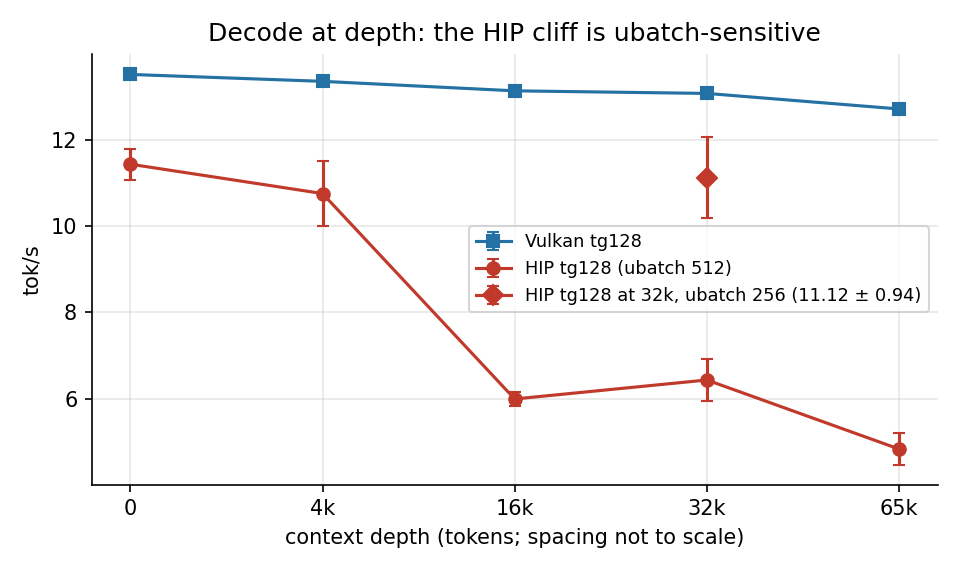
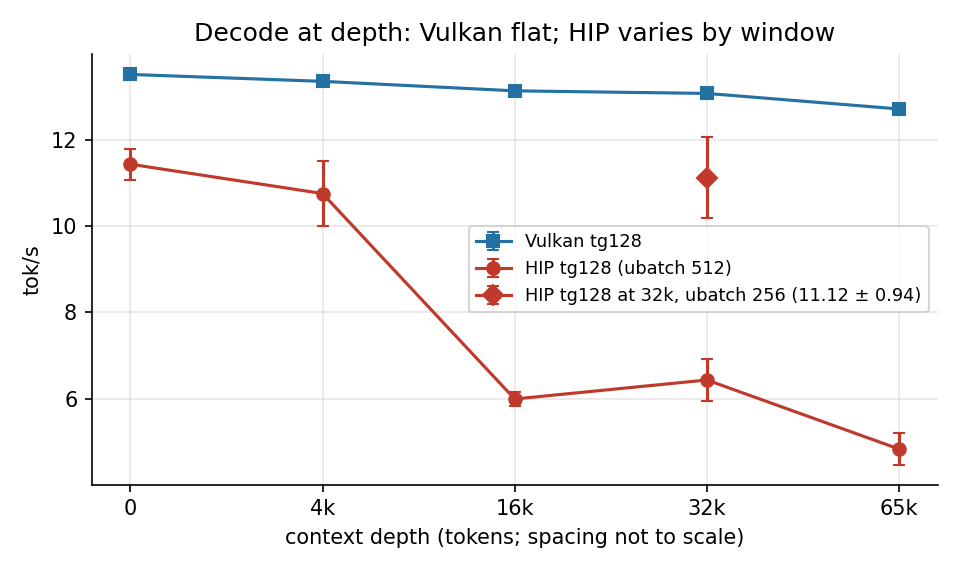
Second review pass: cliff non-replication framing, quant first-pass disclosure, reasoning-effort correction, setup scoping, harness paths, status annotations

Changed region(s): [[0.1875, 0.0298, 0.875, 0.0895]]

diff --git a/harness/make_charts.py b/harness/make_charts.py
@@ -39,7 +39,7 @@ ax.errorbar(DLAB, hip_tg, yerr=hip_e, marker="o", color=HIP, capsize=3, label="H
 # ubatch-256 baseline point from the same record's DFlash-settings table.
 ax.errorbar(["32k"], [11.12], yerr=[0.94], marker="D", color=HIP, markersize=7,
         capsize=3, label="HIP tg128 at 32k, ubatch 256 (11.12 ± 0.94)")
-ax.set_title("Decode at depth: the HIP cliff is ubatch-sensitive")
+ax.set_title("Decode at depth: Vulkan flat; HIP varies by window")
 ax.set_ylabel("tok/s"); ax.set_xlabel("context depth (tokens; spacing not to scale)"); ax.legend(fontsize=8.5)
 fig.tight_layout(); fig.savefig("chart-hip-vulkan.png"); plt.close(fig)
 

diff --git a/harness/analyze_w2.py b/harness/analyze_w2.py
@@ -1,5 +1,5 @@
-import json, statistics as st
-d = json.load(open('/home/hatch/workspace/glimmer/results-w2-raw.json'))
+import json, os, statistics as st
+d = json.load(open(os.path.join(os.path.dirname(os.path.abspath(__file__)), '..', 'data', 'w2', 'results-w2.json')))
 S = d['sections']
 def ms(vals):
     vals=[v for v in vals if v is not None]

diff --git a/harness/analyze_w1.py b/harness/analyze_w1.py
@@ -1,5 +1,5 @@
 import json, re, statistics, os
-base="/home/niclydon/glimmer-furnace-bench/results-w1"
+base=os.path.join(os.path.dirname(os.path.abspath(__file__)), "..", "data", "w1")
 def load(n):
     with open(os.path.join(base,n)) as f: return json.load(f)
 out=[]

diff --git a/article/ARTICLE.md b/article/ARTICLE.md
@@ -1,7 +1,7 @@
 # Muse Glimmer 30B on Strix Halo: a week of measurements
 
 
-The headline benchmark for Muse Spark's Glimmer 30B on a Ryzen AI Max+ 395 is [AMD's](https://www.amd.com/en/blogs/2026/run-meta-muse-glimmer-30b-on-amd-ryzen-ai-max-and-radeon-gpus.html): up to 24 tok/s decode, on Windows, on Vulkan, with DFlash speculative decoding, on a preliminary build of the model. Independent first-party measurements exist too (an [August 2026 four-environment test](https://note.com/zephel01/n/n2c59de98f6e0?hl=en) on this chip, the community [Strix Halo benchmark collection](https://slb350.github.io/strix-benchmarks/), and individual [machine records](https://github.com/kcsinclair/agent-benchmark/blob/main/servers/leia.md)), but they are single-configuration results: a decode number under one serving setup. What I could not find was the operational layer underneath: how the model behaves across context depth, serving shapes, KV choices, and a working week of mixed workloads. I run this model in production, as the local agent seat of a home AI platform, on Linux, on ROCm, on two Strix Halo machines. Over the week of October 18–24, 2026 I benchmarked it: a tuning pass, a context-depth sweep, three controlled maintenance windows on the second machine covering backend comparisons, serving shape, KV cache types at full 131k depth, a quant ladder, power and thermals, and a first vision pass. This article is the results, with the methodology and the caveats kept in, because the caveats are half of what's useful here.
+The headline benchmark for Muse Spark's Glimmer 30B on a Ryzen AI Max+ 395 is [AMD's](https://www.amd.com/en/blogs/2026/run-meta-muse-glimmer-30b-on-amd-ryzen-ai-max-and-radeon-gpus.html): up to 24 tok/s decode, on Windows, on Vulkan, with DFlash speculative decoding, on a preliminary build of the model. Independent first-party measurements exist too (an [August 2026 four-environment test](https://note.com/zephel01/n/n2c59de98f6e0?hl=en) on this chip, the community [Strix Halo benchmark collection](https://slb350.github.io/strix-benchmarks/), and individual [machine records](https://github.com/kcsinclair/agent-benchmark/blob/main/servers/leia.md)), but they are single-configuration results: a decode number under one serving setup. What I could not find was the operational layer underneath: how the model behaves across context depth, serving shapes, KV choices, and a working week of mixed workloads. I run this model in production, as the local agent seat of a home AI platform, on Linux, on ROCm, from one Strix Halo machine. Over the week of October 18–24, 2026 I benchmarked it on two: a tuning pass, a context-depth sweep, three controlled maintenance windows on the second machine covering backend comparisons, serving shape, KV cache types at full 131k depth, a quant ladder, power and thermals, and a first vision pass. This article is the results, with the methodology and the caveats kept in, because the caveats are half of what's useful here.
 
 ## The setup
 
@@ -17,7 +17,7 @@ The model is `unsloth/Muse-Glimmer-30B-GGUF`. The files, with the SHA-256 hashes
 
 The drafter matters: DFlash drafts in 16-token blocks, which makes `--spec-draft-n-max 15` the largest useful setting, a detail that turns out to matter twice below.
 
-Both machines are GMKtec EVO-X2 units (Ryzen AI Max+ 395, Radeon 8060S, gfx1151): Crucible with a 48 GiB GPU budget, Furnace with 64 GiB. The build is llama.cpp b11719 (commit `5aeac37a3`) on ROCm 7.2.1, kernel 6.19.10. Production serving runs through llama-swap; the benches did not — they ran llama-bench and scratch llama-server instances against the same build while llama-swap was stopped. The three Furnace windows and the Crucible sweep ran with the GPU exclusive; the one exception is the founding October 18 Forge-path bench, which ran in production posture with a second model co-resident, and its numbers are labelled as production-path observations where they appear. Repetitions: 3 per cell in the llama-bench phases, 2 runs per cell in the tuning pass and the Phase 3 serving cells; means are reported with their dispersion. Where a number comes from a weaker construction, the text says so at the number, not in a footnote.
+Both machines are GMKtec EVO-X2 units (Ryzen AI Max+ 395, Radeon 8060S, gfx1151): Crucible with a 48 GiB GPU budget, Furnace with 64 GiB. The build is llama.cpp b11719 (commit `5aeac37a3`) on ROCm 7.2.1, kernel 6.19.10: one commit in four local build trees (production and bench trees, HIP and Vulkan), so "same build" anywhere below means same commit, not same binary. Production serving runs through llama-swap; the benches did not — they ran llama-bench and scratch llama-server instances against the same build while llama-swap was stopped. The server-path benches (the DFlash sweep, the serving matrix, the KV cells, and the soak) used raw /completion requests without the chat template; production serves through the template, and the tuning and agent cells used the chat path. The three Furnace windows and the Crucible sweep ran with the GPU exclusive; the one exception is the founding October 18 Forge-path bench, which ran in production posture with a second model co-resident, and its numbers are labelled as production-path observations where they appear. Repetitions: 3 per cell in the llama-bench phases, 2 runs per cell in the tuning pass and the Phase 3 serving cells; means are reported with their dispersion (sample stddevs in the llama-bench data, population stddevs in the server-path aggregates). Where a number comes from a weaker construction, the text says so at the number, not in a footnote.
 
 ## Lesson one: the right draft length depends on what the model is doing
 
@@ -37,17 +37,17 @@ The operational consequence showed up in the very first bench, a production-path
 
 ## HIP versus Vulkan, and an honest loose end
 
-AMD's number is a Vulkan number, so window 1 of the Furnace program ran the canonical llama-bench cells on both the HIP and Vulkan builds of the same llama.cpp commit. One methodological honesty note up front: the comparison is between two local build trees of that commit, not a surgically isolated backend variable; build configuration and driver paths ride along, and the cells were not interleaved. Prefill favors HIP in mean at pp512 at every depth (by 2.5–23%; the 16k cell's HIP dispersion is wide, ±59.87). At pp8192 the picture mixes: Vulkan overtakes HIP at 16k depth (287.54 vs 265.31) and matches at 32k. Decode splits the other way at depth: at the canonical settings (ubatch 512), Vulkan tg128 is flat (13.51 → 12.71 tok/s across 0 → 65,536) while HIP tg128 falls off a cliff between 4k and 16k depth, reaching 4.83 tok/s at 65,536, which makes Vulkan 2.6× faster there.
+AMD's number is a Vulkan number, so window 1 of the Furnace program ran the canonical llama-bench cells on both the HIP and Vulkan builds of the same llama.cpp commit. One methodological honesty note up front: the comparison is between two local build trees of that commit, not a surgically isolated backend variable; build configuration and driver paths ride along, and the cells were not interleaved. Prefill favors HIP in mean at pp512 at every depth (by 2.5–23%; the 16k cell's HIP dispersion is wide, ±59.87). At pp8192 the picture mixes: Vulkan overtakes HIP at 16k depth (287.54 vs 265.31) and matches at 32k. Decode splits the other way at depth in window 1: at the canonical settings (ubatch 512), Vulkan tg128 is flat (13.51 → 12.71 tok/s across 0 → 65,536) while HIP tg128 falls off a cliff between 4k and 16k depth, reaching 4.83 tok/s at 65,536, which makes Vulkan 2.6× faster there. Furnace's HIP build also read about 17% below Crucible's HIP build at depth 0 on the same commit (11.43 vs 13.84), so host and tree differences are in play throughout this section.
 
 ![Vulkan tg128 stays flat with depth while HIP tg128 at ubatch 512 falls to 4.83 tok/s at 65,536. The diamond is the same depth-32,768 cell at ubatch 256 (11.12 ± 0.94 tok/s), the sensitivity described in the text. Furnace, llama-bench, 3 reps per cell. Source data: FURNACE-BENCH-W1-RESULTS.md.](chart-hip-vulkan.png)
 
-Then the caveat that keeps this from being a clean "use Vulkan" headline: the HIP cliff is ubatch-sensitive. At ubatch 256, HIP holds 11.12 tok/s at 32k depth instead of 6.43, and Vulkan shows no comparable sensitivity. The Crucible sweep's HIP numbers were also flat at nominally the same defaults, on a different build tree of the same commit. I am publishing the cells as measured, with the ubatch interaction named, rather than a backend verdict the data doesn't cleanly support. If you reproduce a HIP decode cliff on gfx1151, check your ubatch before you blame the backend.
+Then the caveat that keeps this from being a clean "use Vulkan" headline: the window 1 cliff did not reproduce. In window 3, the same nominal cell (HIP, ubatch 512, depth 32,768) read 12.21 tok/s, not 6.43. Within window 1, a later run at ubatch 256 read 11.12 at that depth, but it ran about 25 minutes after the ubatch-512 cells, so the comparison is confounded with time and window state; the Crucible sweep's HIP numbers were flat at nominally the same defaults, on a different build tree. What survives is a one-window observation with an unknown cause, published as measured. If you reproduce a HIP decode cliff on gfx1151, treat it as a state to characterize across windows, not as a backend verdict.
 
 ## Speculation at depth: what the sweep actually measured
 
 Window 1 also ran the DFlash sweep at depth 32,768, and this is the section where the bench caught its own author. The sweep's prompts were raw /completion requests, not chat-formatted ones: a repeated list of story instructions as filler, ending in a request to write the story, with three prompt variants run once each per configuration. The saved outputs show that in every backend and draft configuration, including draft-off, two of the three variants do not produce the story at all: they continue the prompt's own list ("Variation 1: Now write a short story about a lighthouse keeper…", "Variation 2: …"). On that continuation text the drafter is nearly always right (acceptance 0.76–1.00), which is where the headline rates come from: 88.97 and 89.74 tok/s at n-max 15 on HIP. Those are real decode rates on synthetic prompt-continuation text. They are not story-generation throughput, and they are not a branch a run falls into at random: the variants are different prompts, so "two of three" estimates no probability.
 
-The third variant does write the story, at acceptance 0.09–0.47, and its single observations are the task-valid residue of the sweep: at n-max 15, HIP decoded the story at 15.34 tok/s against 11.62 with no drafter, while Vulkan's story observation at n-max 15 was 9.74 against its own 11.66 undrafted. One observation per cell supports no ranking. It supports the narrower statement that DFlash did not collapse at depth, and that its benefit on natural text at depth is an open question this sweep does not settle. The owed experiment is a correctness-gated replication: chat-formatted prompts, the same prompt repeated under each configuration, outputs and acceptance retained, correct-task and degenerate-output throughput reported separately.
+The third variant does write the story, at acceptance 0.09–0.47, and its single observations are the task-valid residue of the sweep: at n-max 15, HIP decoded the story at 15.34 tok/s against 11.62 with no drafter, while Vulkan's story observation at n-max 15 was 9.74 against its own 11.66 undrafted. One observation per cell supports no ranking. Across every draft size, the story observations run 10.6–16.4 tok/s on HIP and 9.7–18.9 on Vulkan, against undrafted story observations of 11.62 and 11.66: break-even to roughly 1.4×, not an order of magnitude. It supports the narrower statement that DFlash did not collapse at depth, and that its benefit on natural text at depth is an open question this sweep does not settle. The owed experiment is a correctness-gated replication: chat-formatted prompts, the same prompt repeated under each configuration, outputs and acceptance retained, correct-task and degenerate-output throughput reported separately.
 
 ## Greedy is not greedy
 
@@ -55,7 +55,7 @@ The related determinism result comes with a covariate, stated plainly. At temper
 
 ## KV cache at 131k: the deficit lives in decode
 
-The reference point for this test is a figure traced to a secondary summary of a llama.cpp issue on a different model (an R9700 system), where q8_0's deficit reportedly widened from 7% at zero depth to 21% at 131k. Measured here, at a real 123,918-token prompt on HIP with DFlash at n-max 15: q8_0 decode ran 10.03 tok/s against f16's 14.35, a 30.2% deficit (computed from unrounded values), worse than that figure; prefill ran 260.1 against 274.5, a 5.3% deficit, within reach of noise (n=2 per cell). The construction and the speculation accounting were both recorded, and both matter. The prompt was synthetic filler (a repeated fox-and-dog passage) with a summary request appended, processed as 123,918 tokens inside a 131,072-token configured context. Draft acceptance was recorded per run: f16 accepted 171 of 1,244 drafted tokens in each of its two runs (13.7%); q8_0 accepted 175 of 1,172 (14.9%). Acceptance therefore cannot explain the decode deficit, since the slower configuration's acceptance was slightly higher; the deficit sits in the KV path itself under this speculative configuration, two sequential runs per type. The deficit at depth lives in decode, not prefill. Since Glimmer's KV is small (about 2.1 GB at 131k for f16), f16 was the better tested local choice on this generously provisioned setup; that is a local serving conclusion, not a rule for all depths or for capacity-constrained multi-model hosts, which were not tested.
+The reference point for this test is an external report on different hardware (an R9700 system, [llama.cpp issue #27796](https://github.com/ggml-org/llama.cpp/issues/27796)), where q8_0's deficit reportedly widened from 7% at zero depth to about 21% at 131k; it is context, not a source this repo can check. Measured here, at a real 123,918-token prompt on HIP with DFlash at n-max 15: q8_0 decode ran 10.03 tok/s against f16's 14.35, a 30.2% deficit (computed from unrounded values), worse than that figure; prefill ran 260.1 against 274.5, a 5.3% deficit, within reach of noise (n=2 per cell). The construction and the speculation accounting were both recorded, and both matter. The prompt was synthetic filler (a repeated fox-and-dog passage) with a summary request appended, processed as 123,918 tokens inside a 131,072-token configured context. Draft acceptance was recorded per run: f16 accepted 171 of 1,244 drafted tokens in each of its two runs (13.7%); q8_0 accepted 175 of 1,172 (14.9%). Acceptance therefore cannot explain the decode deficit, since the slower configuration's acceptance was slightly higher; the deficit sits in the KV path itself under this speculative configuration, two sequential runs per type. The deficit at depth lives in decode, not prefill. Since Glimmer's KV is small (about 2.1 GB at 131k for f16), f16 was the better tested local choice on this generously provisioned setup; that is a local serving conclusion, not a rule for all depths or for capacity-constrained multi-model hosts, which were not tested.
 
 ![At 123,918 filled tokens in a 131,072-token context, q8_0 KV costs 30.2% of decode against f16 and only 5.3% of prefill, measured with DFlash at n-max 15. n=2 per cell; error bars are population stddevs. Source data: FURNACE-BENCH-W2-RESULTS.md.](chart-kv.png)
 
@@ -63,9 +63,9 @@ At near-zero filled depth the same comparison was a wash (17.7 vs 17.4 tok/s in 
 
 ## The quant ladder: bigger files, slower decode, no measured quality separation
 
-Phase 4 downloaded UD-Q5_K_XL (21.79 GB) and UD-Q6_K_XL (26.27 GB) and ran the core cells (pp512/tg128 at depths 0 and 32,768). Decode at depth 0: Q4 11.65, Q5 6.70 (−42%), Q6 7.30 (−37%) tok/s. At depth 32,768: 12.21 vs 8.29 vs 6.92. On the agent-suite subset (20 tool-call prompts, 5 JSON prompts, the production set), all three quants scored identically: 20/20 on the suite's tool-call check and 5/5 raw-parse JSON at every quant. That tool-call check is a signature check (the expected function name, plus one required argument key present), not a validation of argument values, and in this window's run the full arguments were not retained, so the score cannot be regraded after the fact. The suite is a smoke test with a ceiling effect; equal scores on it do not establish quality equivalence, and it cannot exclude subtler differences in reasoning depth, factuality, or long prose. What the evidence supports is narrower and still decisive for a serving decision: the larger quants cost a third to just over two-fifths of decode speed in this run, and the program's narrow smoke suite found no separation to pay for it. Q4 is preferred on that basis. The run's own disclosures ride along: the ladder table is a supplemental sequential run executed during a backlog sprint (CPU load 4 rising to 13), Q4 had already run repeatedly that night while Q6 had just finished downloading, and the depth-32,768 Q4 figure carries the cross-window variance flagged below. (One anomaly stands as measured: Q5 decoded below Q6 at depth 0 with non-overlapping dispersion, which a pure file-size story would not predict; the expected order restored at depth. Kernel-path differences between quant layouts are a plausible mechanism; none is claimed.)
+Phase 4 downloaded UD-Q5_K_XL (21.79 GB) and UD-Q6_K_XL (26.27 GB) and ran the core cells (pp512/tg128 at depths 0 and 32,768). Decode at depth 0: Q4 11.65, Q5 6.70 (−42%), Q6 7.30 (−37%) tok/s. At depth 32,768: 12.21 vs 8.29 vs 6.92. The ladder ran twice that night; a first pass put Q4's depth-0 decode at 9.93 tok/s, and against that baseline the larger files' depth-0 deficit is 26–33% instead of 37–42%. Across both passes the honest range is roughly 26–43%. On the agent-suite subset (20 tool-call prompts and 5 JSON prompts: synthetic weather, timer, contacts, and currency tasks), all three quants scored identically: 20/20 on the suite's tool-call check and 5/5 raw-parse JSON at every quant. That tool-call check is a signature check (the expected function name, plus one required argument key present), not a validation of argument values, and in this window's run the full arguments were not retained, so the score cannot be regraded after the fact. The suite is a smoke test with a ceiling effect; equal scores on it do not establish quality equivalence, and it cannot exclude subtler differences in reasoning depth, factuality, or long prose. What the evidence supports is narrower and still decisive for a serving decision: the larger quants cost between about a quarter and just over two-fifths of decode speed across the night's two passes, and the program's narrow smoke suite found no separation to pay for it. Q4 is preferred on that basis. The run's own disclosures ride along: the ladder table is a supplemental sequential run executed during a backlog sprint (CPU load 4 rising to 13), Q4 had already run repeatedly that night while Q6 had just finished downloading, and the depth-32,768 Q4 figure carries the cross-window variance flagged below. (One anomaly stands as measured: Q5 decoded below Q6 at depth 0, though the separation is thin — the mean±stddev intervals miss overlapping by 0.03 and the individual reps do overlap — which a pure file-size story would not predict; the expected order restored at depth. Kernel-path differences between quant layouts are a plausible mechanism; none is claimed.)
 
-![Decode (tg128) for the three ladder quants at depth 0 and depth 32,768, from the window's supplemental run. The larger files cost a third to just over two-fifths of decode speed at both depths in this run. Furnace, llama-bench, HIP, 3 reps per cell. Source data: FURNACE-BENCH-W3-RESULTS.md.](chart-quant.png)
+![Decode (tg128) for the three ladder quants at depth 0 and depth 32,768, from the window's supplemental run. The larger files cost between about a quarter and just over two-fifths of decode speed across the night's two passes. Furnace, llama-bench, HIP, 3 reps per cell. Source data: FURNACE-BENCH-W3-RESULTS.md.](chart-quant.png)
 
 ## Serving shape: slots buy concurrency, not speed
 
@@ -75,7 +75,7 @@ Multi-turn prompt caching is the other serving fact worth having, scoped to its 
 
 ## The reasoning tax, and the one real failure
 
-Glimmer reasons visibly, and the reasoning is billed to your token budget. The working control is a chat-template kwarg (`reasoning_strength`), not the server flags: `--reasoning off` and `--reasoning-budget` were both measured inert against this model's template in the October 18 control tests (REASONING-CONTROL-VERDICT-2026-10-18.md, shipped with the bench repo), which opens its reasoning channel unconditionally. With the control in place, the tax is monotonic on the one prompt measured (an incident summary, 2 reps per level), for a near-identical-length visible answer (~370–411 chars) at every level: low ≈ 162 completion tokens, medium ≈ 2.3× that, high ≈ 3.6×.
+Glimmer reasons visibly, and the reasoning is billed to your token budget. The reliable server-side control is a chat-template kwarg (`reasoning_strength`), per the October 18 control tests (REASONING-CONTROL-VERDICT-2026-10-18.md, shipped with the bench repo). The flags are a mixed bag: `--reasoning-budget` was fully inert (the sampler keys on think tags this model does not emit), `--reasoning off` was proven inert separately, and `--reasoning-effort low` half-worked, completing the prose brief with content comparable to the kwarg's (1,056 vs 1,083 content chars) while failing the judge-shaped call just as the kwarg did. No knob rescued judge-shaped calls at a 400-token budget; that failure mode belongs to the caller, not the flags. With the control in place, the tax is monotonic on the one prompt measured (an incident summary, 2 reps per level), for a near-identical-length visible answer (~370–411 chars) at every level: low ≈ 162 completion tokens, medium ≈ 2.3× that, high ≈ 3.6×.
 
 The failure this produces is the result with the largest deployment consequence in the program, stated at its true sample size: a single run of a single payload. A long-form synthesis payload on Crucible (2,507 tokens in, 4,096-token budget, agent-seat flags with no reasoning control) spent its entire budget on reasoning and returned zero content characters. Decode was healthy throughout (26.9 tok/s sustained); the failure is budget allocation, not throughput. The record's own verdict is disjunctive: a workload like this needs a reasoning-controlled seat or a far larger budget. No multiplier is derived from this data, and the obvious candidate does not survive the tax table above (medium reasoning alone ran about 3.6× the visible answer's length in characters on the tax prompt — the harness stored character counts, not a token split — and the longtext run consumed a 4,096 budget entire), so the rule is the control, not a number: carry the reasoning-strength control on any seat doing long-form work, and where reasoning is uncontrolled, treat any fixed budget as consumable entirely by reasoning. A harness that treats this model like a non-reasoning model can receive empty answers at full price in time.
 
@@ -87,7 +87,7 @@ A 30-minute sustained decode soak on Q4 (1 Hz rocm-smi sampling across the whole
 
 ## Vision: a first pass
 
-The mmproj had never been wired up in this stack. On the first attempt it loaded (21.0 s), prefilled a 303-token image prompt at 214.9 tok/s, and decoded at 11.14 tok/s. Against a synthetic 480×360 ground-truth image (test image, ground truth, and full response ship with the bench repo), the model described the background, the shapes, and the colors correctly, and the red rectangle's extents approximately right; two misses: the rectangle, flush with the image corner and fully in frame, was described as cropped by it, and the response hit its 512-token cap before the green square's location sentence landed. One image is a smoke test, not a vision benchmark; it's reported as a working starting point with extent and framing judgment as the visible weakness.
+The mmproj had never been wired up in this stack. On the first attempt it loaded (21.0 s), prefilled a 303-token image prompt at 214.9 tok/s, and decoded at 11.14 tok/s. Against a synthetic 480×360 ground-truth image (test image, ground truth, and full response ship with the bench repo), the model described the background, the shapes, and the colors correctly, and the red rectangle's extents approximately right; three misses: it called the rectangle a square in one sentence; the rectangle, flush with the image corner and fully in frame, was described as cropped by it; and the response hit its 512-token cap before the green square's location sentence landed. One image is a smoke test, not a vision benchmark; it's reported as a working starting point with extent and framing judgment as the visible weakness.
 
 ## The settings card
 
@@ -96,13 +96,13 @@ For anyone serving this model on Strix Halo with llama.cpp — scoped to these t
 - Quant: UD-Q4_K_XL. In the ladder run the bigger files were a decode tax, and the program's smoke suite found no quality separation to pay for it.
 - Drafter: DFlash on. n-max 15 for agent/tool workloads; n-max 3–4 for open prose on the shape measured. Use 15 rather than 16: the block is 16 tokens and 16 added nothing measured.
 - KV: f16. q8_0 showed no penalty at negligible filled depth and cost ~30% of decode at 124k filled tokens under speculative decode, with acceptance recorded and not the explanation; filled depths between are unmeasured.
-- Backend: HIP led the pp512 prefill means; pp8192 mixes by depth (Vulkan overtakes at 16k). Investigate Vulkan if deep-context decode dominates, and check ubatch before concluding anything about either — the two backends here were two build trees of one commit, not an isolated variable.
+- Backend: HIP led the pp512 prefill means; pp8192 mixes by depth (Vulkan overtakes at 16k). Investigate Vulkan if deep-context decode dominates. HIP's deep decode varied by window at identical nominal settings, cause unknown, and the two backends here were two build trees of one commit, not an isolated variable.
 - Sampling: the model card's temp 1.0 / top-p 0.95 / top-k 64 produced 3 distinct outputs in 3 runs at 12.31 tok/s in the W2 check. Temp 0 was reproducible with speculation off and not with it, subject to the slot-parallelism covariate named above.
-- Reasoning: control it through the chat template (`reasoning_strength`), not server flags. Where reasoning is uncontrolled, treat any fixed token budget as consumable entirely by reasoning.
+- Reasoning: control it through the chat template (`reasoning_strength`); `--reasoning-budget` is inert on this model and `--reasoning-effort low` is partial. No knob rescues judge-shaped calls at small budgets: size budgets for the reasoning, or carry the control in the prompt. Where reasoning is uncontrolled, treat any fixed token budget as consumable entirely by reasoning.
 - Serving: slots for concurrency, prompt cache for prefill where prefixes are stable; single-stream speed across slot counts was not separately tested.
 
 ## What this article is not claiming
 
-The depth-32k acceptance highs come from prompt-continuation of a repetitive list construction and need a correctness-gated natural-text replication. The KV cells are n=2 sequential runs per type under speculative decode, on a synthetic filler prompt whose construction and per-run acceptance are recorded in the data. The quant quality suite has a ceiling. The vision result is one synthetic image. HIP decode at depth is not one story yet: Crucible's sweep was flat, Furnace cliffed at ubatch 512 in window 1, and the same nominal Q4 cell at depth 32,768 read 6.43 tok/s in window 1 (ubatch 512), 11.12 at ubatch 256, and 12.21 in window 3 — cross-window variance at depth is documented rather than resolved, and single depth-32768 HIP figures should be read with it in mind. The greedy-reproducibility comparison carries a slot-parallelism covariate and is owed a same-server rerun. The Vulkan cells' RADV/Mesa version was not captured in the window manifest. The bench repo ships the raw JSON, the power CSV, the harness scripts, the record files named throughout, and the environment manifests (kernel, ROCm, build commit, GGUF hashes) so anyone with the hardware can check any of it, and I would rather be corrected with data than believed without it.
+The depth-32k acceptance highs come from prompt-continuation of a repetitive list construction and need a correctness-gated natural-text replication. The KV cells are n=2 sequential runs per type under speculative decode, on a synthetic filler prompt whose construction and per-run acceptance are recorded in the data. The quant quality suite has a ceiling. The vision result is one synthetic image. HIP decode at depth is not one story yet: Crucible's sweep was flat, Furnace cliffed at ubatch 512 in window 1, and the same nominal Q4 cell at depth 32,768 read 6.43 tok/s in window 1 (ubatch 512), 11.12 at ubatch 256 later in that window, and 12.21 in window 3 at ubatch 512 — the window 1 cliff did not reproduce, its cause is unknown, and single depth-32768 HIP figures should be read with that variance in mind. The greedy-reproducibility comparison carries a slot-parallelism covariate and is owed a same-server rerun. The Vulkan cells' RADV/Mesa version was not captured in the window manifest. The bench repo ships the raw JSON, the power CSV, the harness scripts, the record files named throughout, and the environment manifests (kernel, ROCm, build commit, GGUF hashes) so anyone with the hardware can check any of it, and I would rather be corrected with data than believed without it.
 
 Nothing measured here contradicts AMD's figure: 24 tok/s on Windows/Vulkan with DFlash sits inside the range these local measurements produce on real generations. What's different is everything around the peak: what a typical run looks like, what depth does to each backend, what a KV choice costs at a full context, and what the model does to your token budget when you aren't watching it. That operational layer is what this adds to the numbers already out there: measured, with the constructions named, including the one that fooled its own author.

diff --git a/CORRECTIONS.md b/CORRECTIONS.md
@@ -88,3 +88,41 @@ contemporaneous was rewritten.
   will either accept that disclosure explicitly or publish from a
   sanitized history. It is recorded here so the choice is deliberate.
   The repository remains private in the meantime.
+
+## Second review pass — 2026-10-24
+
+A second independent audit (recomputing every article number from the
+raw data) produced further corrections, applied the same day:
+
+- The window 1 HIP decode cliff did not reproduce: window 3 read
+  12.21 tok/s in the same nominal cell (HIP, ubatch 512, depth
+  32,768) against window 1's 6.43. The article now presents the cliff
+  as a one-window observation with unknown cause; the within-window
+  ubatch comparison was time-confounded. The chart title and the
+  settings-card advice were corrected accordingly.
+- Quant ladder: the first-pass Q4 depth-0 figure (9.93 tok/s) is now
+  disclosed alongside the supplemental run's 11.65, and the deficit
+  range is stated as roughly 26-43% across both passes. The Q5/Q6
+  depth-0 separation is described with its actual thinness (intervals
+  miss overlapping by 0.03; reps overlap). The agent-suite subset is
+  described as the synthetic task set it is.
+- Reasoning control: the article now reports the probe table as
+  recorded - `--reasoning-budget` inert, `--reasoning-effort low`
+  partial (brief completed with content comparable to the kwarg),
+  `--reasoning off` proven inert separately - and states that no knob
+  rescued judge-shaped calls at small budgets.
+- Setup: production serving is from Crucible only; "same build" is
+  scoped to one commit in four build trees; the raw /completion
+  construction of the server-path benches is stated in the setup; the
+  external KV figure is linked to its primary source and marked as
+  context this repo cannot check.
+- Story-variant ranges at depth are stated across all draft sizes
+  (HIP 10.6-16.4, Vulkan 9.7-18.9 tok/s).
+- Vision: the response also called the rectangle a square; the
+  article now counts three misses.
+- Harness: `analyze_w1.py` and `analyze_w2.py` now resolve their data
+  paths relative to the script instead of hard-coded absolute paths.
+- Records: status lines from the moment of writing are annotated as
+  such; the README's withheld list now includes the longtext payload;
+  FINAL-PASS's substitution note covers recorded outputs as well as
+  prompts, and its path-occurrence count is corrected to 82.

diff --git a/FINAL-PASS.md b/FINAL-PASS.md
@@ -35,11 +35,13 @@ the result files generated from them are excluded from this repo; the
 records document their shapes, sizes, and results. See the README's
 "What's withheld, and why."
 
-**Substituted — third-party names in test prompts.** The agent-suite
-prompts in the window 2 and 3 data and harness scripts used four real
-contacts' names as `search_contacts` inputs. In the public copies
-they are replaced with generic placeholder names (29 substitutions
-across 5 files). No measurement depends on the name strings.
+**Substituted — third-party names in test prompts and outputs.** The
+agent-suite prompts in the window 2 and 3 data and harness scripts
+used four real contacts' names as `search_contacts` inputs. In the
+public copies they are replaced with generic placeholder names
+wherever they appear, in the prompts and in the recorded model
+outputs alike (29 substitutions across 5 files). No measurement
+depends on the name strings.
 
 **Redacted — one network detail.** A private interconnect address
 appeared once in the window 1 record; it is removed in the public
@@ -53,7 +55,7 @@ file layout). They evidence window restores only; the records
 document the restores, so the snapshots are excluded.
 
 **Reviewed and kept, deliberately:**
-- The author's own username in absolute file paths (83 occurrences):
+- The author's own username in absolute file paths (82 occurrences):
   the repo is published under his own name, and the paths are
   provenance for the raw data.
 - The two machine names used throughout the article and records.

diff --git a/records/FURNACE-BENCH-W2-RESULTS.md b/records/FURNACE-BENCH-W2-RESULTS.md
@@ -17,6 +17,8 @@ narrative used in the reasoning-tax test is synthetic, composed as a
 string literal in the test harness for this bench; it is not a record
 of a real incident. The original text below is unchanged.
 
+Addendum (2026-10-24, second review): the serving matrix's texture is wider than the summary suggests - the 65,536 two-slot cell's two reps aggregate 11.50 and 24.33 tok/s, and one 131,072 two-slot request generated only 2 tokens. Status lines in this record ("not published anywhere") describe the moment of writing; the package was published later.
+
 
 Glimmer benchmark program, Furnace (GMKtec EVO-X2, Ryzen AI Max+ 395 / Radeon 8060S gfx1151).
 Phase 3 per `FURNACE-BENCH-PLAN.md`: serving shape (context × parallel slots), KV f16 vs q8_0 at full 131k depth, prefill ubatch/batch focus, and the agent workload suite on the real serving path.

diff --git a/records/CRUCIBLE-SWEEP-2026-10-19.md b/records/CRUCIBLE-SWEEP-2026-10-19.md
@@ -1,5 +1,10 @@
 # Crucible context-depth sweep — Glimmer publication package — 2026-10-19
 
+## Status note - added 2026-10-24
+
+Status lines in this record ("nothing from this sweep has been published") describe the moment of writing; the package was published later. The exact run scripts named below were session scripts on Crucible and are not in the package; the sweep's data and this record are complete.
+
+
 Run window: scheduled Mon 2026-10-19 23:07 EDT (America/New_York); executed on Crucible only.
 Furnace production untouched. Declared maintenance window approved by Nic in the Glimmer build chat, Oct 19, 2026.
 

diff --git a/records/FURNACE-BENCH-W3-RESULTS.md b/records/FURNACE-BENCH-W3-RESULTS.md
@@ -20,6 +20,8 @@ always consistent and unaffected. Thermal language below is scoped
 to the single 30-minute soak described. The original text below is
 unchanged.
 
+Status note (2026-10-24): status lines in this record ("not published anywhere") describe the moment of writing; the package was published later.
+
 
 Glimmer benchmark program, Furnace (GMKtec EVO-X2, Ryzen AI Max+ 395 / Radeon 8060S gfx1151).
 Phase 4 per `FURNACE-BENCH-PLAN.md`: quant ladder (UD-Q4_K_XL vs UD-Q5_K_XL vs UD-Q6_K_XL), power and thermal (1 Hz rocm-smi through the runs plus a 30-minute sustained decode soak), and the mmproj vision stretch.

diff --git a/README.md b/README.md
@@ -118,6 +118,10 @@ by design:
   containing full production command lines, and no article number
   depends on them; the records document each window's verified
   restore in prose.
+- The longtext payload behind the Crucible longtext run. It is a real
+  weekly-synthesis payload, withheld on the same basis as the prose
+  payloads above. Its result file ships in `data/crucible-sweep/`
+  (the run returned no content; the file carries metrics only).
 
 Two mechanical changes were made to the public copies, and nothing
 else was altered: the four contact names used in the agent-suite test

diff --git a/records/FURNACE-BENCH-W1-RESULTS.md b/records/FURNACE-BENCH-W1-RESULTS.md
@@ -18,6 +18,8 @@ story-variant observations (n=1 per cell), e.g. HIP n-max 15 at
 undrafted. The llama-bench backend cells are unaffected. The original
 text below is unchanged.
 
+Status note (2026-10-24): status lines in this record ("not published anywhere") describe the moment of writing; the package was published later.
+
 
 Glimmer benchmark program, Furnace (GMKtec EVO-X2, Ryzen AI Max+ 395 / Radeon 8060S gfx1151).
 Phase 2 per `FURNACE-BENCH-PLAN.md`: canonical llama-bench (HIP vs Vulkan) + DFlash sweep.
